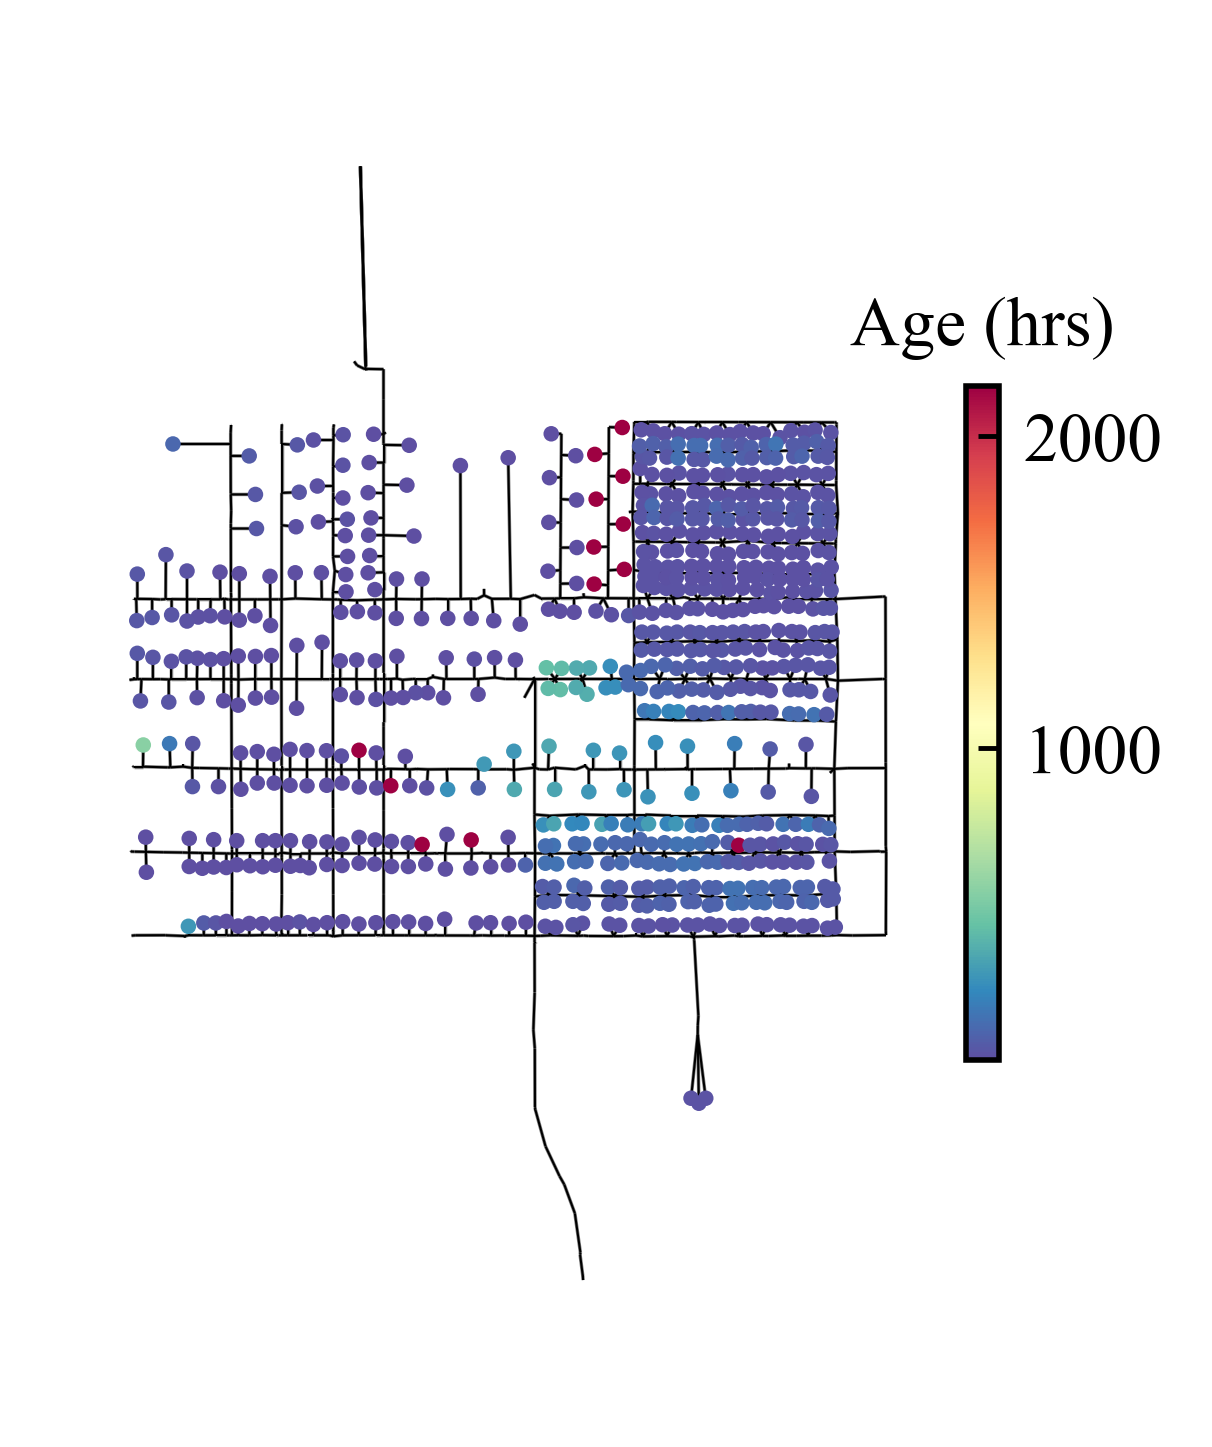
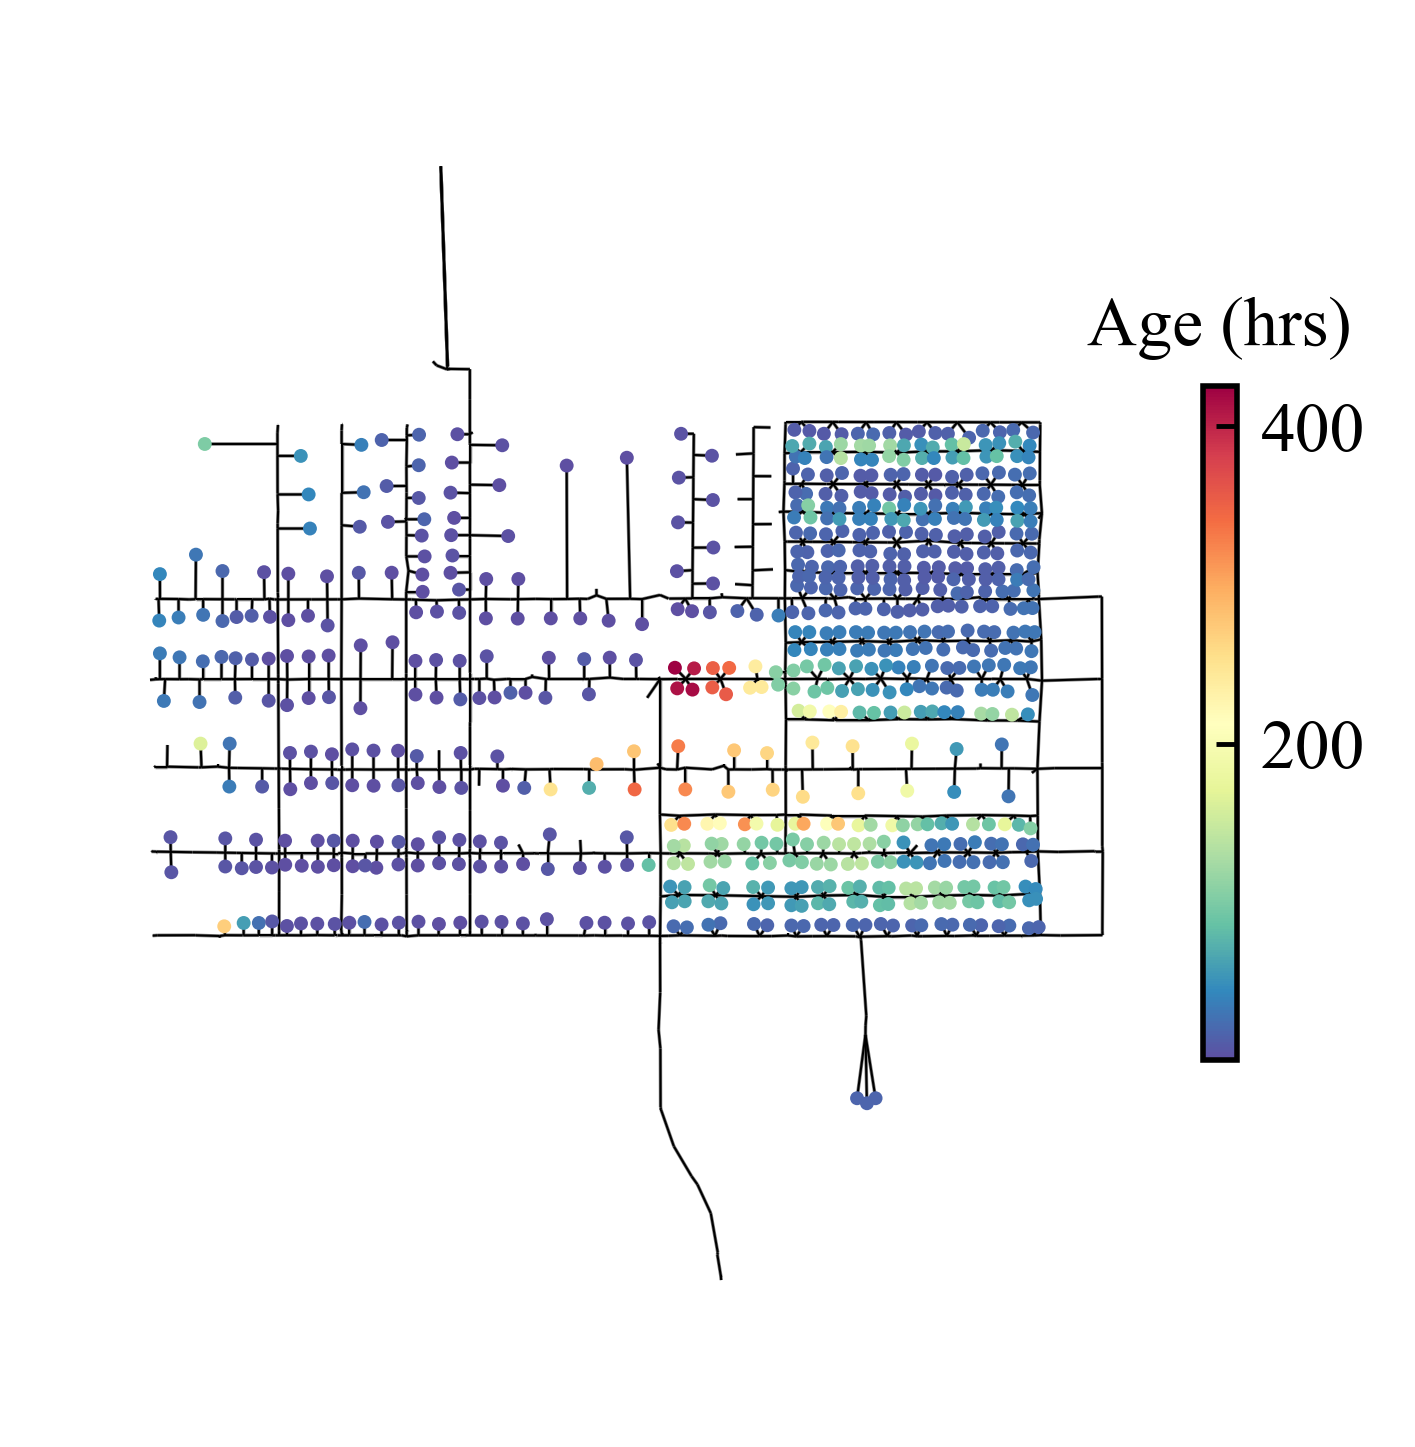
unknown changes

Changed region(s): [[0.0916, 0.1244, 0.9769, 0.8708], [0.1221, 0.2799, 0.1526, 0.311]]

diff --git a/base.py b/base.py
@@ -73,13 +73,12 @@ class BaseGraphics:
 
         return math.sqrt((p2x-p1x)**2 + (p2y-p1y)**2)
 
-    def calc_age_diff(self, data1, data2):
+    def calc_age_diff(self, data):
         out_dict = dict()
-        print(data2)
-        for i, (node, colData) in enumerate(data1.items()):
-            out_data2 = data2.iloc[-1, i] / 3600
-            out_dict[node] = (out_data2 - (colData.iloc[-1] / 3600)) / out_data2 * 100
-            print(f"Base: {colData.iloc[-1]/3600}, pm: {out_data2}, change: {out_dict[node]}")
+        for (node, colData) in data.items():
+            out_data = colData.iloc[-1] / 3600
+            if 'TN' in node and out_data < 500:
+                out_dict[node] = out_data
 
         return out_dict
 
@@ -542,13 +541,20 @@ class Graphics(BaseGraphics):
         #                  sd=ut.calc_error(no_wfh['var_age'], error)/3600,
         #                  sd2=ut.calc_error(wfh['var_age'], error)/3600, type='all')
 
-        pm_age = self.calc_age_diff(self.base['avg_age'], self.pm['avg_age'])
+        pm_age = self.calc_age_diff(self.pm['avg_age'])
+        base_age = self.calc_age_diff(self.base['avg_age'])
 
         ax = wntr.graphics.plot_network(self.wn, node_attribute=pm_age,
-                                        node_colorbar_label='Age Change (%)',
-                                        node_size=4, link_width=0.3,
-                                        node_cmap='PuOr')
+                                        node_colorbar_label='Age (hrs)',
+                                        node_size=4, link_width=0.3)
         plt.savefig(self.pub_loc + 'age_network_pm.' + self.format,
+                    format=self.format, bbox_inches='tight')
+        plt.close()
+
+        ax = wntr.graphics.plot_network(self.wn, node_attribute=base_age,
+                                        node_colorbar_label='Age (hrs)',
+                                        node_size=4, link_width=0.3)
+        plt.savefig(self.pub_loc + 'age_network_base.' + self.format,
                     format=self.format, bbox_inches='tight')
         plt.close()
 
